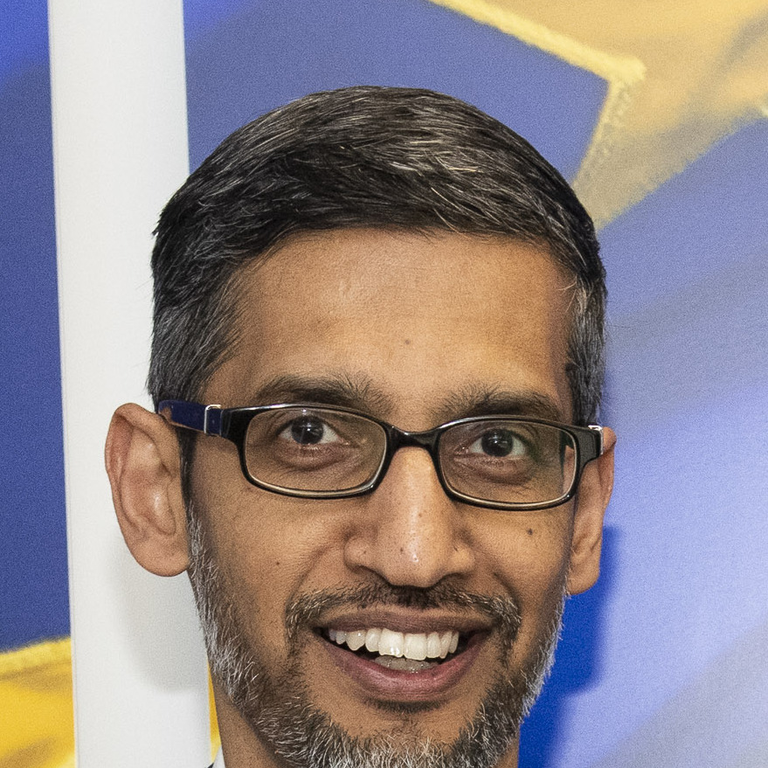
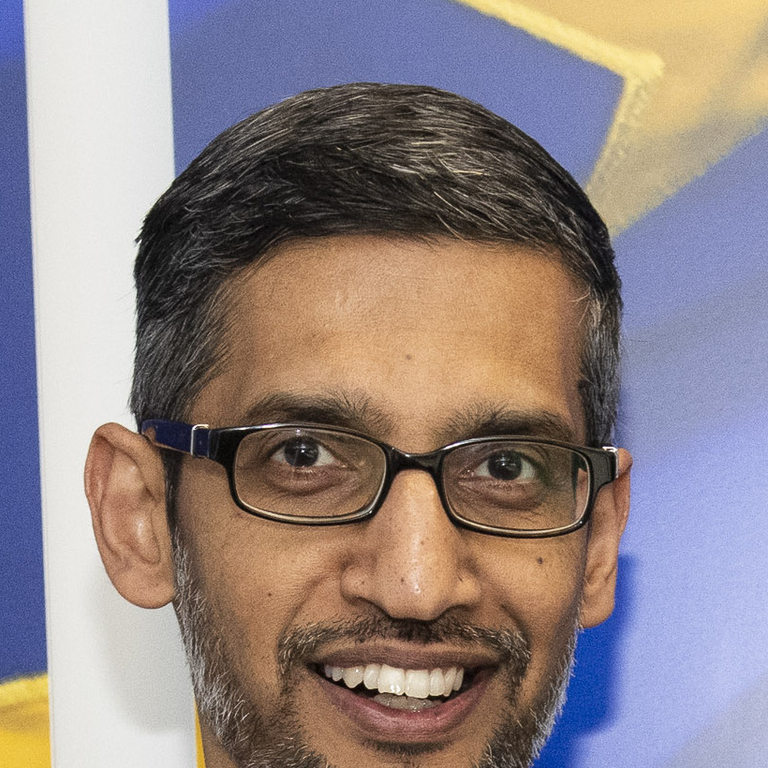
Pin quote portraits to the bottom-right and fix face crops.
Move On the wall avatars into the card corner, clear text around them, and recrop Satya and Jobs so faces sit centered in the circle.

diff --git a/frontend/src/site/SiteShell.js b/frontend/src/site/SiteShell.js
@@ -201,25 +201,25 @@ function HomePanel({ onOpenTab, onOpenGame }) {
       text: 'Wear your failure as a badge of honor.',
       name: 'Sundar Pichai',
       role: 'CEO, Google',
-      photo: '/images/quotes/sundar-pichai.png?v=6',
+      photo: '/images/quotes/sundar-pichai.png?v=7',
     },
     {
       text: 'Our industry does not respect tradition — it only respects innovation.',
       name: 'Satya Nadella',
       role: 'CEO, Microsoft',
-      photo: '/images/quotes/satya-nadella.png?v=6',
+      photo: '/images/quotes/satya-nadella.png?v=7',
     },
     {
       text: 'Talk is cheap. Show me the code.',
       name: 'Linus Torvalds',
       role: 'Creator of Linux',
-      photo: '/images/quotes/linus-torvalds.png?v=6',
+      photo: '/images/quotes/linus-torvalds.png?v=7',
     },
     {
       text: 'Design is not just what it looks like and feels like. Design is how it works.',
       name: 'Steve Jobs',
       role: 'Co-founder, Apple',
-      photo: '/images/quotes/steve-jobs.png?v=6',
+      photo: '/images/quotes/steve-jobs.png?v=7',
     },
   ];
   const fieldNotes = [
@@ -418,6 +418,13 @@ function HomePanel({ onOpenTab, onOpenGame }) {
               viewport={{ once: true, amount: 0.35 }}
               transition={{ delay: index * 0.06, duration: 0.4 }}
             >
+              <div className="site-home__quote-body">
+                <blockquote>“{quote.text}”</blockquote>
+                <figcaption>
+                  <cite>{quote.name}</cite>
+                  <span>{quote.role}</span>
+                </figcaption>
+              </div>
               <div className="site-home__quote-photo">
                 <img
                   src={quote.photo}
@@ -427,13 +434,6 @@ function HomePanel({ onOpenTab, onOpenGame }) {
                   decoding="async"
                   loading="lazy"
                 />
-              </div>
-              <div className="site-home__quote-body">
-                <blockquote>“{quote.text}”</blockquote>
-                <figcaption>
-                  <cite>{quote.name}</cite>
-                  <span>{quote.role}</span>
-                </figcaption>
               </div>
             </motion.figure>
           ))}

diff --git a/frontend/src/site/site.css b/frontend/src/site/site.css
@@ -3189,11 +3189,11 @@ body::-webkit-scrollbar,
 
 .site-home__quote {
   margin: 0;
+  position: relative;
   display: grid;
-  grid-template-columns: auto minmax(0, 1fr);
-  gap: 0.9rem;
-  align-items: start;
-  padding: 1.05rem 1.1rem 1.15rem;
+  grid-template-columns: minmax(0, 1fr);
+  gap: 0.7rem;
+  padding: 1.05rem 1.15rem 1.1rem;
   border-radius: 14px;
   border: 1px solid var(--site-border);
   overflow: visible;
@@ -3202,7 +3202,10 @@ body::-webkit-scrollbar,
 }
 
 .site-home__quote-photo {
-  /* Compact size (pre-enlarge); terracotta via padding so overflow can’t clip it */
+  /* Compact avatar anchored to the card’s bottom-right */
+  position: absolute;
+  right: 0.85rem;
+  bottom: 0.8rem;
   box-sizing: border-box;
   width: 3.75rem;
   height: 3.75rem;
@@ -3222,7 +3225,7 @@ body::-webkit-scrollbar,
   height: 100%;
   border-radius: 50%;
   object-fit: cover;
-  object-position: center center;
+  object-position: center 18%;
   display: block;
   background: #1a1024;
 }
@@ -3231,6 +3234,9 @@ body::-webkit-scrollbar,
   min-width: 0;
   display: grid;
   gap: 0.55rem;
+  /* Keep quote + attribution clear of the bottom-right portrait */
+  padding-right: 4.35rem;
+  padding-bottom: 0.15rem;
 }
 
 .site-home__quote blockquote {
